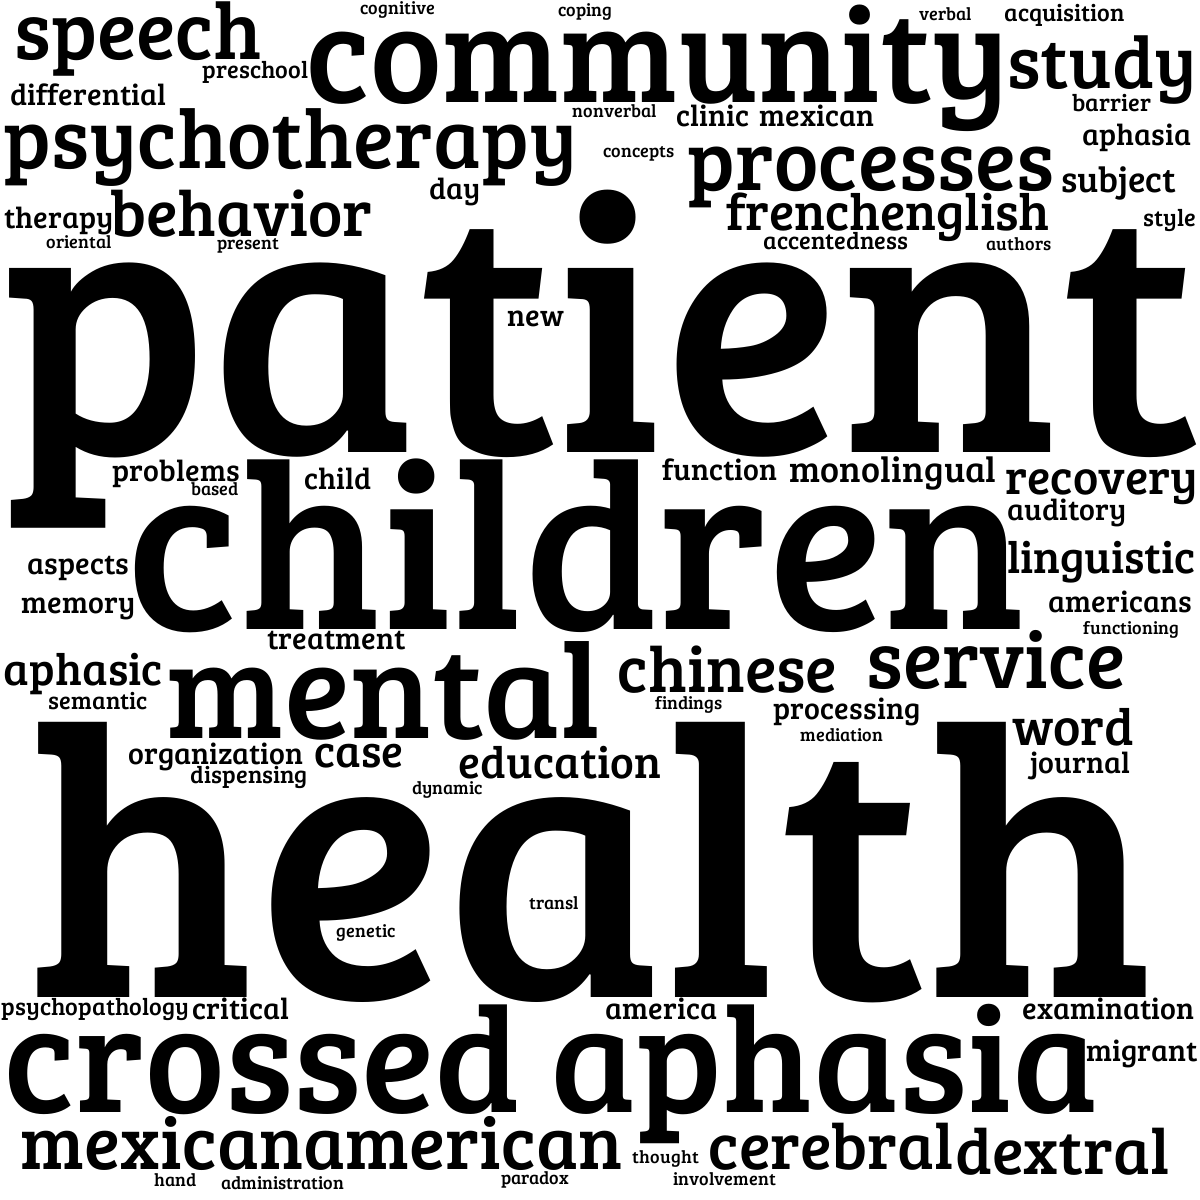
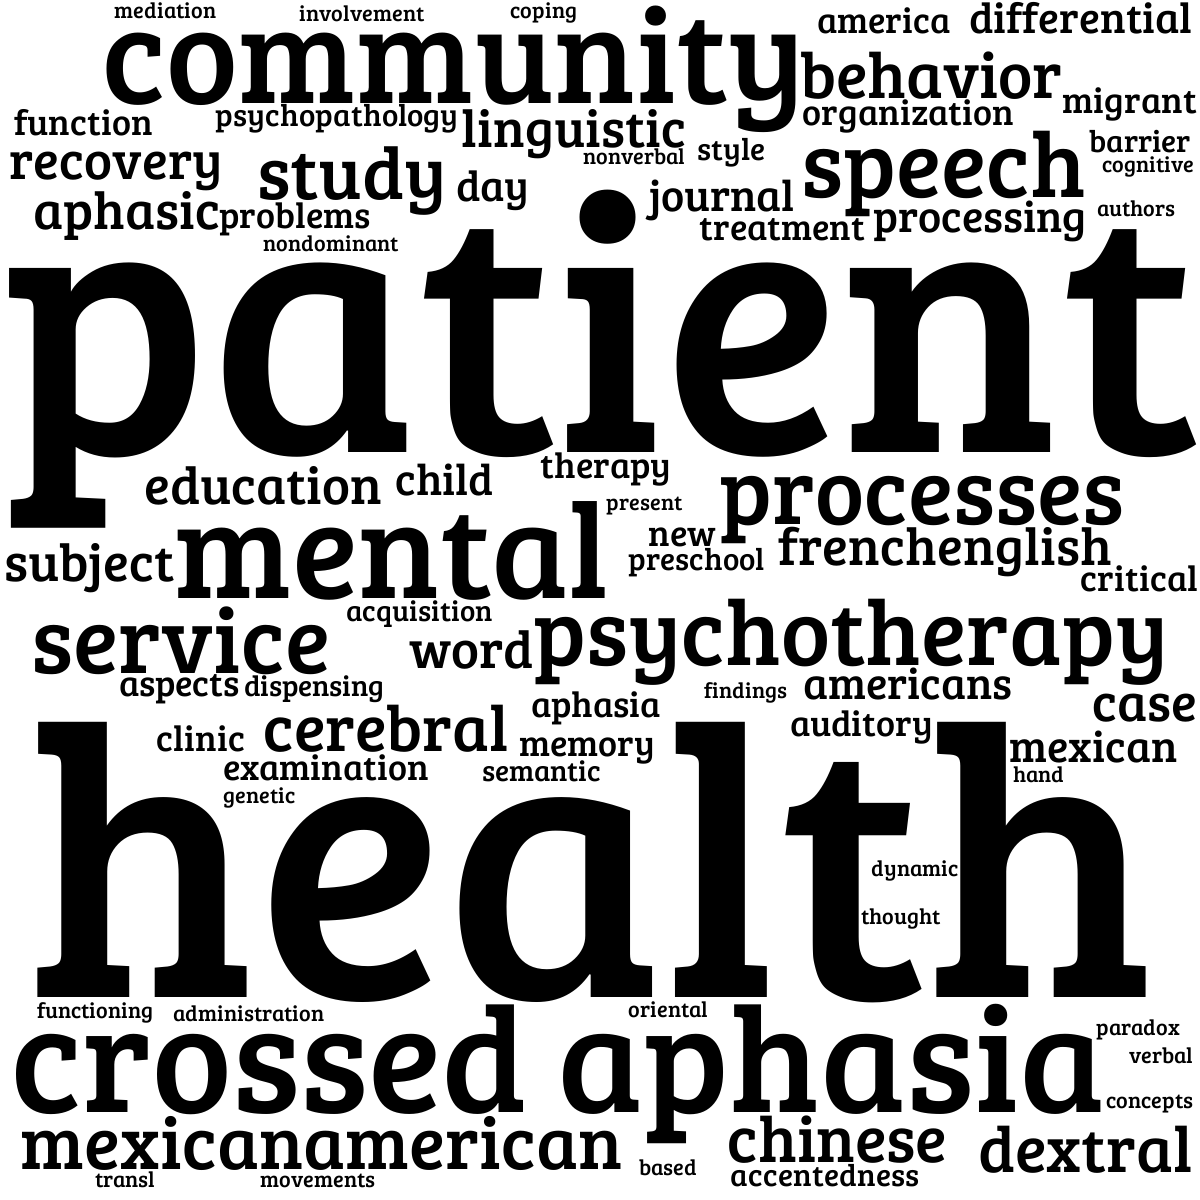
update stopwords

diff --git a/main.py b/main.py
@@ -4,20 +4,24 @@ import datetime as dt
 from scripts.tokenizer import WordTokenizer
 from scripts.wordcloud import WordCloudGenerator
 
-additional_stopwords = [
-                        "bilingual",
-                       "bilingualism",
-                       "bilinguals",
-                       #"bilingually",
-                       #"monolingual",
-                       "monolingualbilingual",
-                       "language",
-                       #"study"
-                       ]
 
 tokenizer = WordTokenizer(lemmatize=False)
 
 def main():
+    
+    additional_stopwords = [
+                        "bilingual",
+                       "bilingualism",
+                       "bilinguals",
+                       "bilingually",
+                       "monolingual",
+                       "monolinguals",
+                       "monolingualbilingual",
+                       "language",
+                       "children"
+                       #"study"
+                       ]
+
     data = pd.read_csv("./data/all_titles.csv")
 
     data['decade'] = np.floor_divide(pd.DatetimeIndex(data['publication_date']).year, 10).astype(int) * 10
